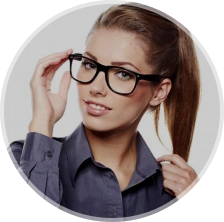
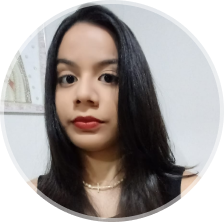
alterações

diff --git a/styles.css b/styles.css
@@ -13,7 +13,7 @@ body * {
     --surface-color-hover: rgba(0, 0, 0, 0.02);
     --highlight-color: rgba(255, 255, 255, 0.2);
     --switch-bg-url:url(./moon-stars.svg);
-
+    --border-color: rgba(69, 65, 69, 1);
 }
 
 .light {
@@ -24,6 +24,7 @@ body * {
     --highlight-color: rgba(0, 0, 0, 0.1);
     --highlight-color: rgba(255, 255, 255, 0.2);
     --switch-bg-url: url(./sunn-stars.svg);
+    --border-color: rgba(255, 0, 0, 1)
 }
 
 
@@ -38,8 +39,10 @@ body {
 }
 
 #container {
-    border: 1px solid red;
-    width: 360px;
+    border: 1px solid var(--border-color);
+    
+    width: 100%;
+    max-width: 588px;
     margin: 56px auto 0px;
     padding: 0 24px;
 

diff --git a/script.js b/script.js
@@ -9,7 +9,7 @@ const img = document.querySelector("#profile img")
     if(html.classList.contains('light')){
 
     // se tiver light mode, adicionar a imagem light
-img.setAttribute('src', './avatar-light.png')
+img.setAttribute('src', './Avatar-light.png.png')
 
     } else {
 // se tuver sem light mode, manter a imagem normal

diff --git a/index.html b/index.html
@@ -14,7 +14,7 @@
     <div id="container">
     <div id="profile">
 <img src="./Avatar.png"  alt="Moça">
-<p> Maria Chiara</p>
+<p> Ana Maria</p>
 
     </div>
 <div id="switch" onclick="toggleMode()">

diff --git a/README.md b/README.md
@@ -1,0 +1,32 @@
+<h1 align="center"> DevLinks </h1>
+
+
+<a href="https://app.rocketseat.com.br/discover/enroll?utm_source=site&utm_medium=organic&utm_campaign=lead&utm_term=discover&utm_content=botao_lpdiscover-signupplataforma">Estude esse projeto em formato de vídeo clicando aqui</a>
+
+<br>
+
+<p align="center">
+  <img alt="projeto DevLinks" src="./github.png" width="100%">
+</p>
+
+## 🚀 Tecnologias
+
+Esse projeto foi desenvolvido com as seguintes tecnologias:
+
+- HTML e CSS
+- JavaScript
+- Git e Github
+- Figma
+
+## 💻 Projeto
+
+O DevLinks é um agregador de links para usar como cartão de visitas online, que desenvolvi através do programa exclusivo e gratuito, promovido pela Rocketseat para ensino de tecnologias WEB.
+
+- [Acesse o projeto finalizado, online](https://maykbrito.github.io/devlinks)
+
+
+
+## 🔖 Layout
+
+Você pode visualizar o layout do projeto através [DESSE LINK](https://www.figma.com/community/file/1187422022288947321). É necessário ter conta no [Figma](https://figma.com) para acessá-lo.
+
